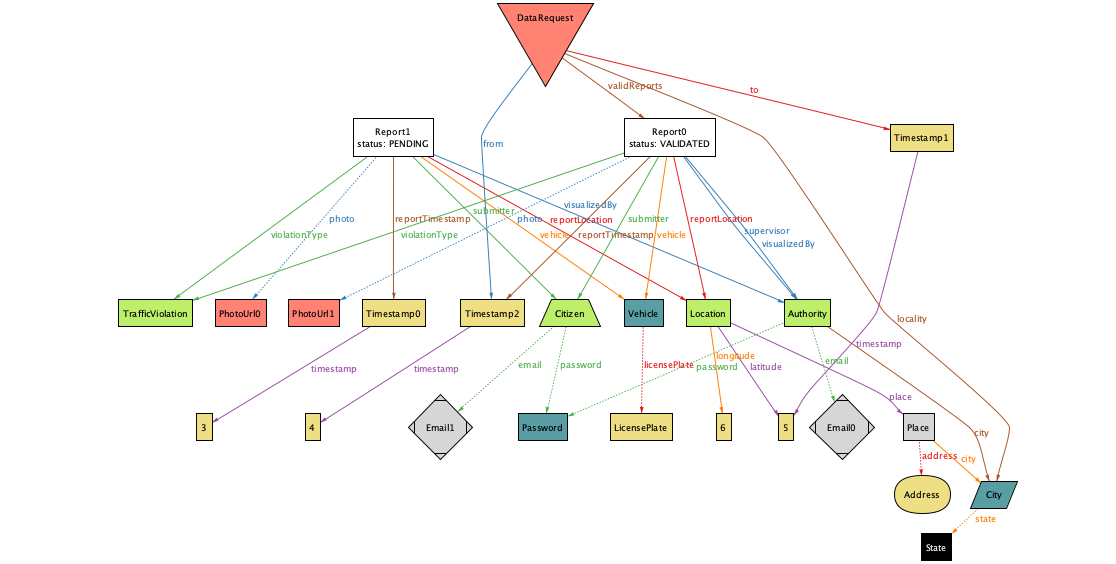
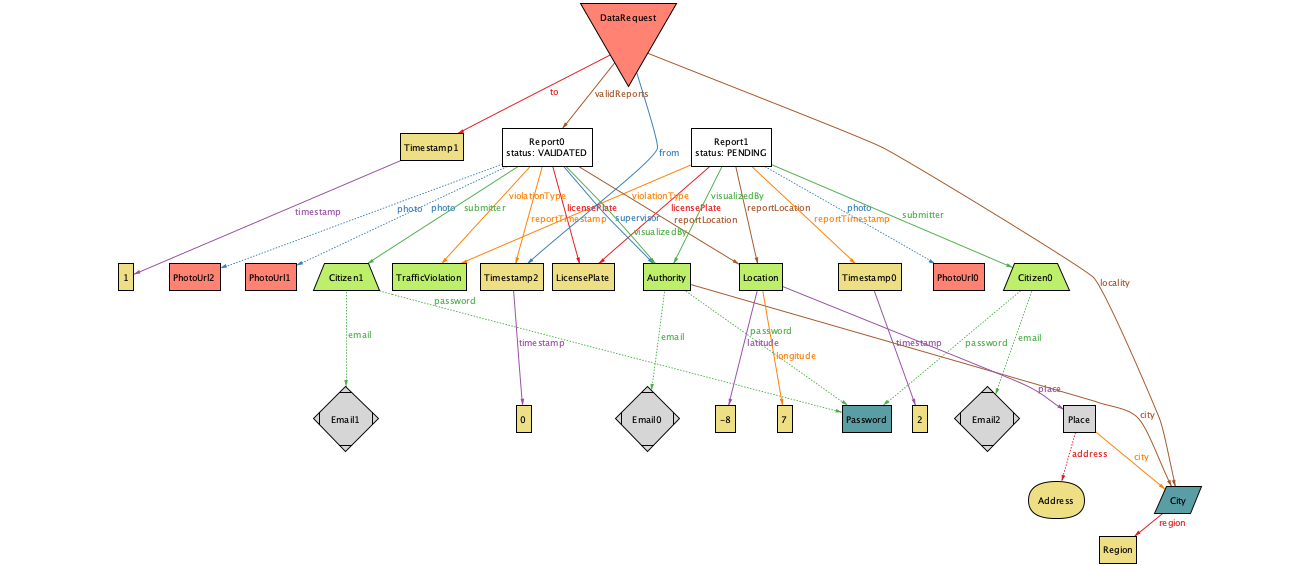
[RASD] update signup mockups, remove vehicle from alloy

diff --git a/Documentation/RASD/Sections/RevisionHistory.tex b/Documentation/RASD/Sections/RevisionHistory.tex
@@ -29,4 +29,5 @@
 	\item Remove birthday from citizen's data.
 	\item Update login mockup and signup (both citizen and authority) in "User interfaces" section.
 	\item Remove vehicle class from class diagram, because the system doesn't focus on getting vehicle data besides the license plate and so it's not necessary. Also make photo attribute an array (multiple photos were introduced in version 1.1), change city attribute from "state" to "region", as the system is now designed to work in Italy.
+	\item Remove vehicle entity and update worlds.
 \end{itemize}

diff --git a/Documentation/RASD/Sections/EffortSpent.tex b/Documentation/RASD/Sections/EffortSpent.tex
@@ -23,8 +23,8 @@ Andrea Huang:
      Introduction &  7\\
      Overall Description & 4.0\\
      Specific Requirements & 14.75\\
-     Formal Analysis Using Alloy & 12.5\\
+     Formal Analysis Using Alloy & 13.25\\
      \hline
-     Total & 38.25\\
+     Total & 39\\
      \hline
 \end{tabular}
